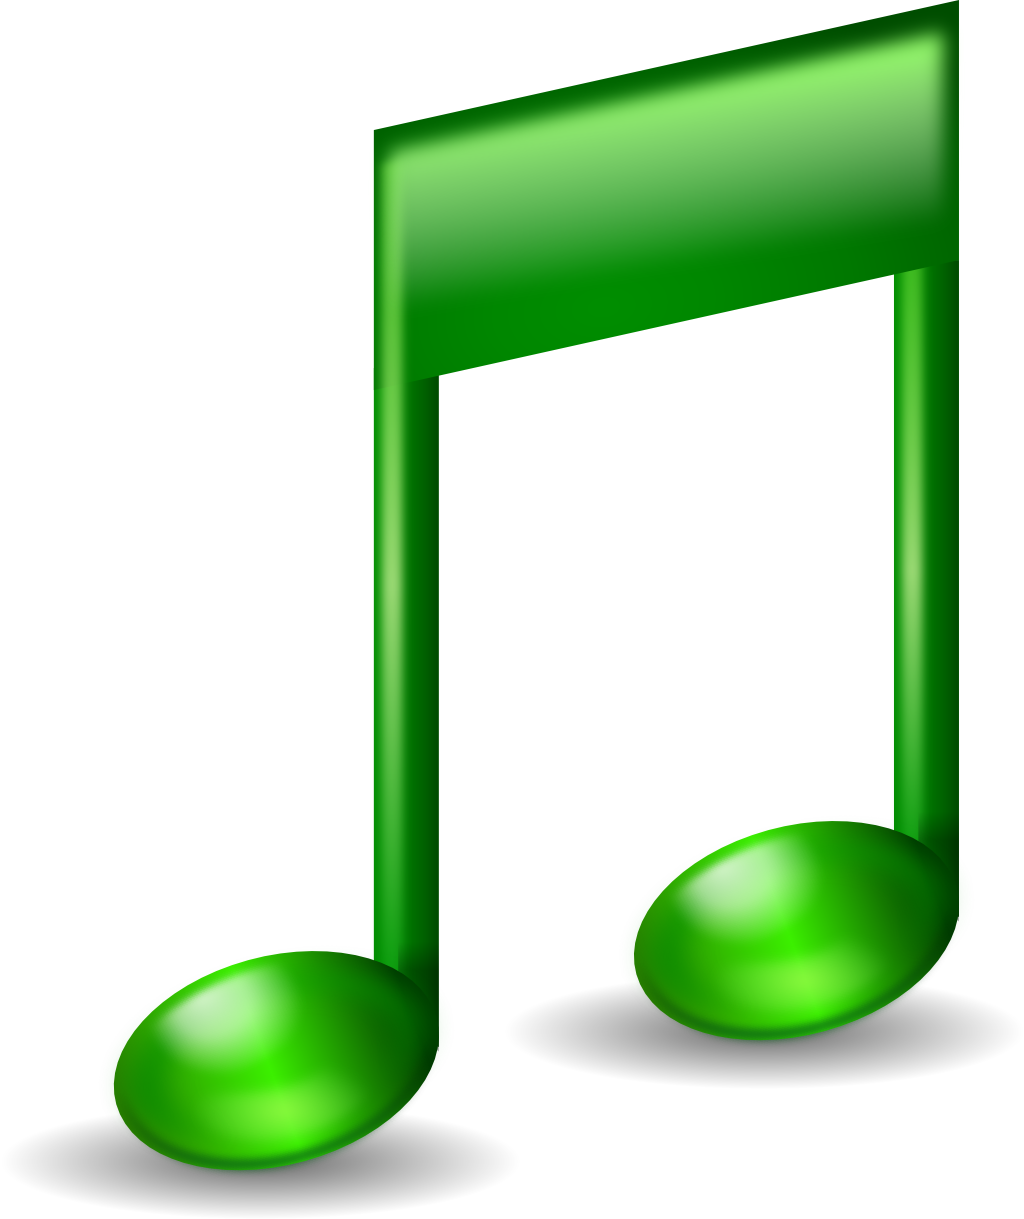
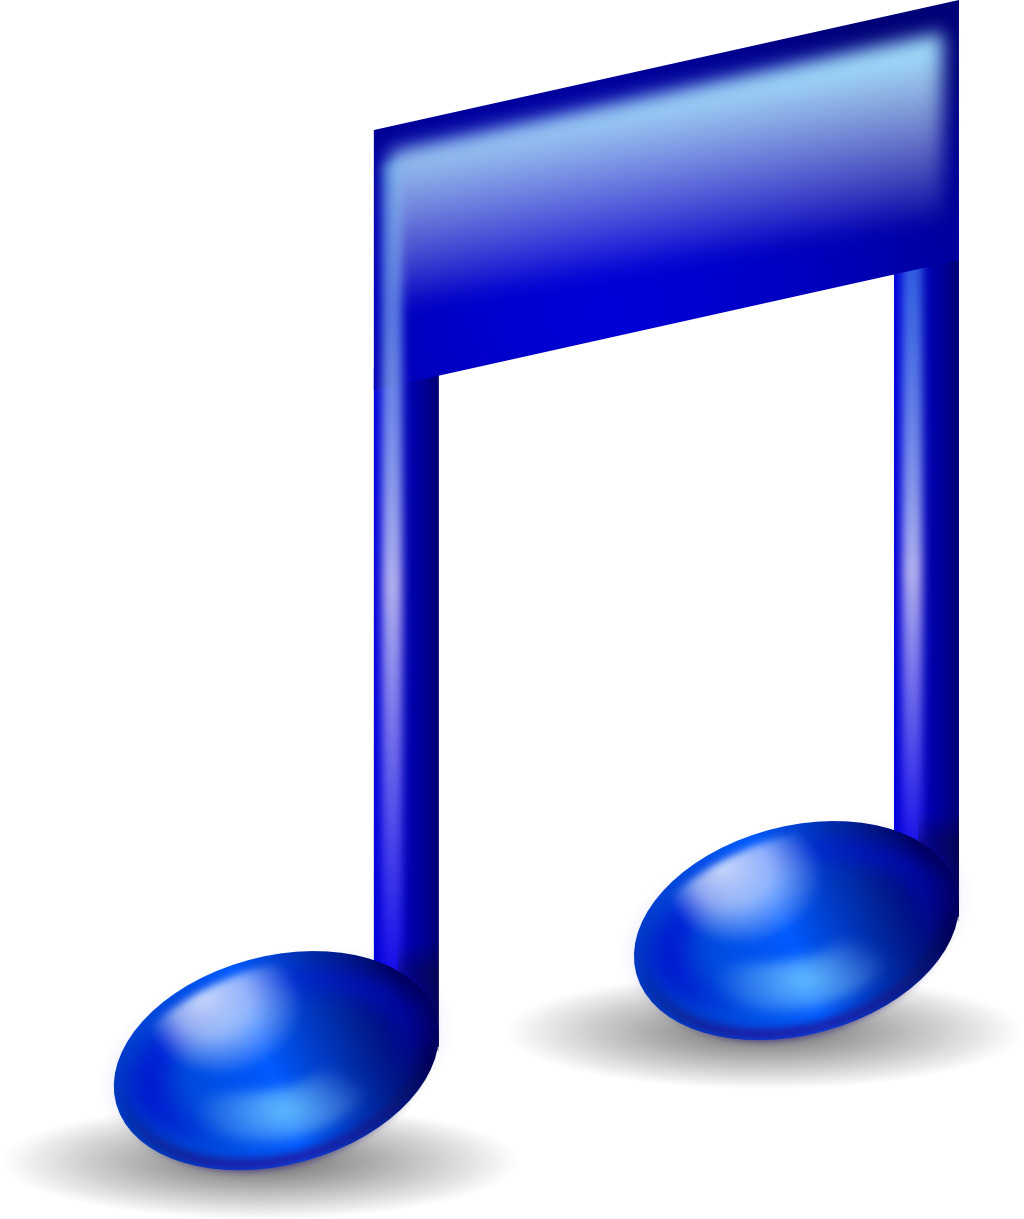
- Updates to new Gloxygen theme

Changed region(s): [[0.0938, 0.0, 0.9375, 0.9664]]

diff --git a/utils/InputQueue.py b/utils/InputQueue.py
@@ -21,6 +21,7 @@ class InputQueue(gobject.GObject):
         }
     
     accelerating = False
+    use_acceleration = True
     current_acceleration_factor = 1
     acceleration_factor_base = 10 #Timelines will run at regular speed times this when accelerated
     acceleration_threshold = 3 #The queue size at which accleration kicks in (Make this higher to increase the delay before acceleration takes place)
@@ -127,6 +128,7 @@ class InputQueue(gobject.GObject):
             absolute_queue_size = self.queue_north + self.queue_east + self.queue_south + self.queue_west
             if absolute_queue_size > self.acceleration_threshold:
                 if not self.accelerating:
+                    self.accelerating = True
                     self.accelerate()
             #print "Queue Size: N=%s E=%s S=%s W=%s" % (self.queue_north, self.queue_east, self.queue_south, self.queue_west)
             
@@ -164,6 +166,9 @@ class InputQueue(gobject.GObject):
             return False
         
     def accelerate(self):
+        if not self.accelerating:
+            return False
+        
         self.accelerating = True
         if self.current_acceleration_step < self.acceleration_steps:
             self.current_acceleration_step +=1

diff --git a/interfaces/ListMenu/ListMenu.py b/interfaces/ListMenu/ListMenu.py
@@ -53,6 +53,9 @@ class Interface(clutter.Group):
         menu.item_gap = int(themeMgr.find_child_value(element, "item_gap"))
         menu.displayMax = int(themeMgr.find_child_value(element, "num_visible_elements"))
         
+        colour = themeMgr.get_colour(element, "menu", subnode=True)
+        if not colour is None: self.stage.set_color(colour)
+        
         #Grab the font
         font_node = themeMgr.get_subnode(element, "font")
         fontString = themeMgr.get_font("main", font_node)
